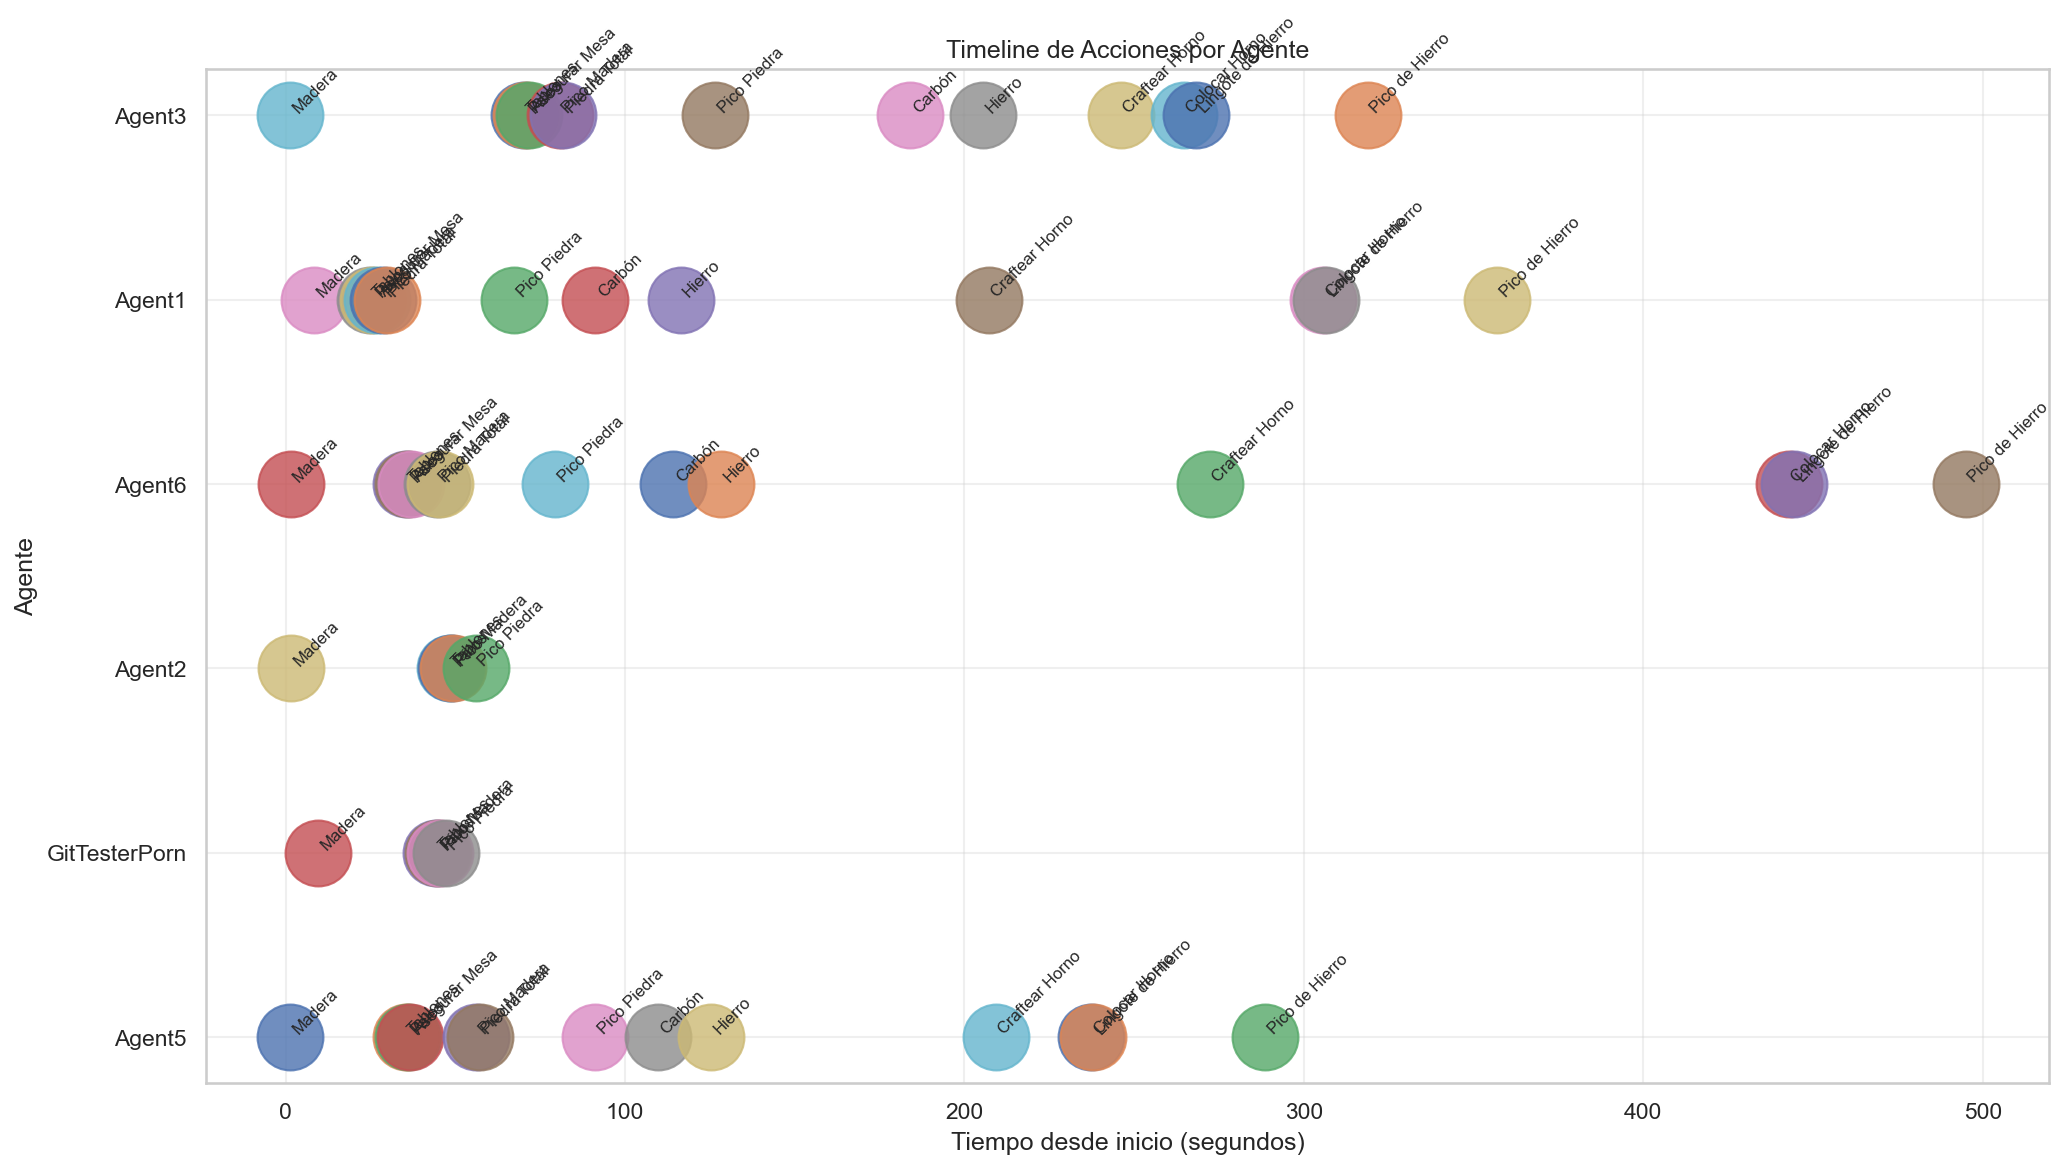
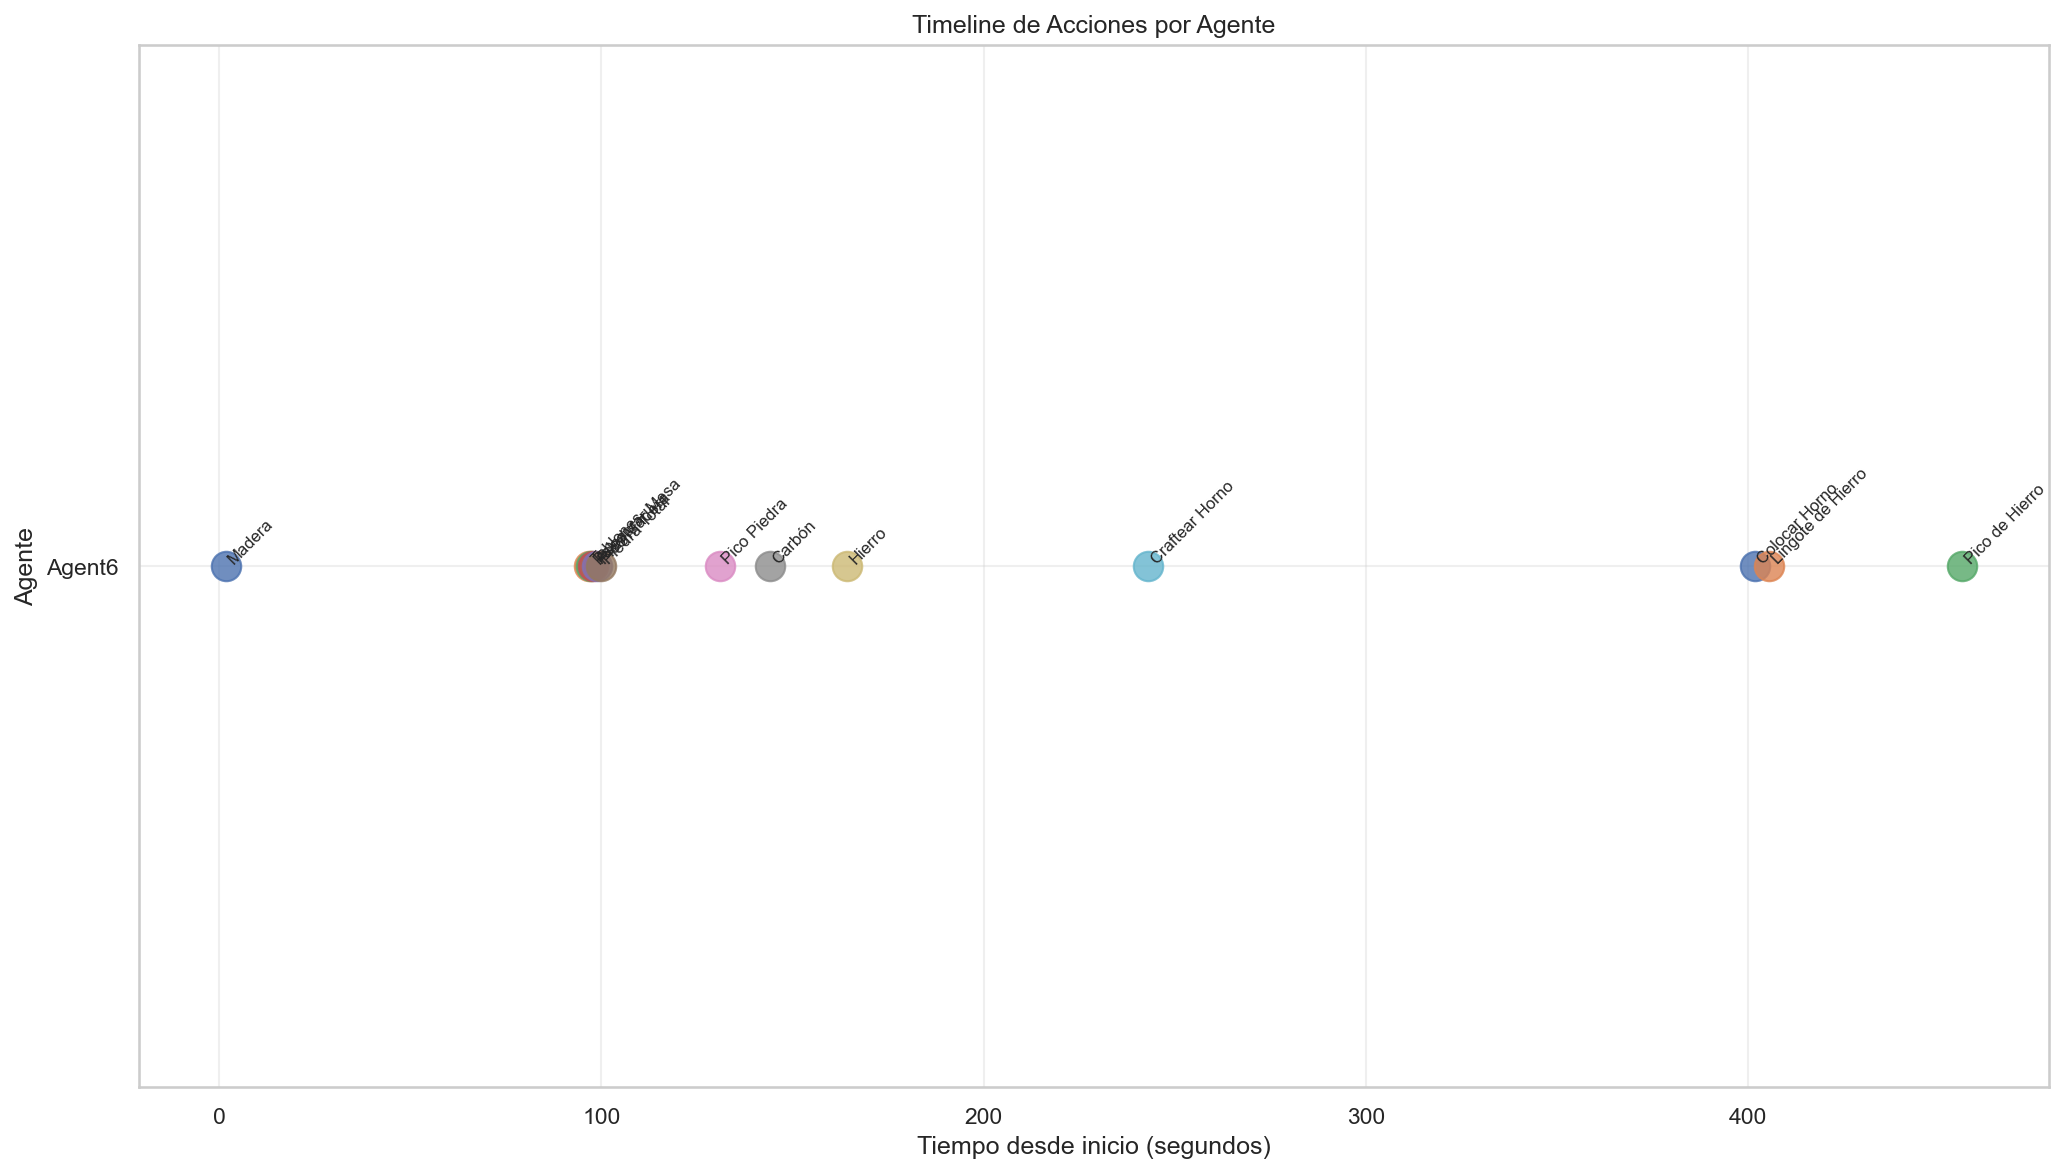
feat: obtencion de madera y planks dinamica

diff --git a/src/htn/tasks/wood.js b/src/htn/tasks/wood.js
@@ -1,14 +1,100 @@
 import { collectResource, ensureCraftingTable } from '../primitive_task.js'
 
 // =========================================================
-// --- TAREAS DE NIVEL MEDIO: MADERA/MESA ---
+// --- TAREAS DE NIVEL MEDIO: MADERA DINÁMICA ---
 // =========================================================
 
+// Mapeo extendido y más preciso
+const biomeToWoodType = {
+    'forest': 'oak_log',
+    'birch_forest': 'birch_log',
+    'dark_forest': 'dark_oak_log',
+    'jungle': 'jungle_log',
+    'spruce_taiga': 'spruce_log',
+    'taiga': 'spruce_log',
+    'old_growth_pine_taiga': 'spruce_log',
+    'old_growth_spruce_taiga': 'spruce_log',
+    'acacia_savanna': 'acacia_log',
+    'savanna': 'acacia_log',
+    'warped_forest': 'warped_stem',
+    'crimson_forest': 'crimson_stem',
+    'mangrove_swamp': 'mangrove_log',
+    'cherry_grove': 'cherry_log',
+    'snowy_taiga': 'spruce_log',
+    'flower_forest': 'oak_log',
+    'meadow': 'oak_log'
+}
+
+// Lista de sufijos de bloques de madera válidos
+const WOOD_SUFFIXES = ['_log', '_stem', '_hyphae', '_wood'];
+
 async function chopTree(bot, mcData, logs = 4) {
-    await collectResource(bot, mcData, 'oak_log', logs)
+    const woodType = await obtainWoodType(bot, mcData);
+    console.log(`[Wood.js] Bioma detectado. Buscando: ${woodType}`);
+    await collectResource(bot, mcData, woodType, logs);
+}
+
+function getBiomeName(bot, mcData) {
+    const biomeId = bot.world.getBiome(bot.entity.position);
+    return mcData.biomes[biomeId]?.name || 'plains';
+}
+
+/**
+ * Determina qué madera recolectar basándose en el bioma 
+ * o en lo que hay alrededor si el bioma es desconocido.
+ */
+async function obtainWoodType(bot, mcData) {
+    const biome = getBiomeName(bot, mcData);
+    let woodType = biomeToWoodType[biome];
+
+    // Si el bioma no está en el mapa, intentamos detectar qué madera hay cerca físicamente
+    if (!woodType) {
+        console.warn(`[Wood.js] Bioma "${biome}" no mapeado. Escaneando alrededores...`);
+        
+        // Buscamos bloques que coincidan con IDs de logs en mcData
+        const nearbyWood = bot.findBlock({
+            matching: (block) => {
+                const name = block.name;
+                return WOOD_SUFFIXES.some(suffix => name.endsWith(suffix));
+            },
+            maxDistance: 32
+        });
+
+        if (nearbyWood) {
+            woodType = nearbyWood.name;
+        } else {
+            // Fallback final: roble (el más común)
+            console.warn(`[Wood.js] No se encontró madera cerca. Usando roble por defecto.`);
+            woodType = 'oak_log';
+        }
+    }
+
+    return woodType;
+}
+
+/**
+ * Convierte un tipo de madera (log/stem) a su tipo de planks correspondiente
+ */
+function obtainPlankType(woodType) {
+    // Mapeo de log/stem a planks
+    const logToPlank = {
+        'oak_log': 'oak_planks',
+        'birch_log': 'birch_planks',
+        'dark_oak_log': 'dark_oak_planks',
+        'spruce_log': 'spruce_planks',
+        'jungle_log': 'jungle_planks',
+        'acacia_log': 'acacia_planks',
+        'mangrove_log': 'mangrove_planks',
+        'cherry_log': 'cherry_planks',
+        'warped_stem': 'warped_planks',
+        'crimson_stem': 'crimson_planks'
+    };
+
+    return logToPlank[woodType] || 'oak_planks';
 }
 
 export {
-    ensureCraftingTable,
-    chopTree
+    chopTree,
+    obtainWoodType,
+    obtainPlankType
 }

diff --git a/src/server/server.js b/src/server/server.js
@@ -67,6 +67,11 @@ const args = yargs(hideBin(process.argv))
         description: 'Minecraft version (or "auto")',
         default: 'auto'
     })
+    .option('clean-metrics', {
+        type: 'boolean',
+        description: 'Clean metrics directory (excluding example_*.json/csv files)',
+        default: false
+    })
     .option('config', {
         alias: 'c',
         type: 'string',
@@ -107,6 +112,40 @@ try {
     console.error('[ERROR] Failed to clean memory directory:', error.message);
 }
 
+// Clean metrics directory if requested
+if (args.cleanMetrics) {
+    const metricsPath = "src/agents/metrics/";
+    try {
+        const fs = await import('fs');
+        if (fs.existsSync(metricsPath)) {
+            const files = fs.readdirSync(metricsPath);
+            let deletedCount = 0;
+            
+            for (const file of files) {
+                // Skip example files
+                if (file.startsWith('example_')) {
+                    continue;
+                }
+                
+                const filePath = `${metricsPath}/${file}`;
+                if (fs.statSync(filePath).isFile()) {
+                    fs.unlinkSync(filePath);
+                    deletedCount++;
+                }
+            }
+            
+            if (deletedCount > 0) {
+                console.log(`[INFO] Removed ${deletedCount} file(s) from metrics directory`);
+            }
+        } else {
+            // Create directory if it doesn't exist
+            fs.mkdirSync(metricsPath, { recursive: true });
+            console.log(`[INFO] Created metrics directory: ${metricsPath}`);
+        }
+    } catch (error) {
+        console.error('[ERROR] Failed to clean metrics directory:', error.message);
+    }
+}
 
 await EvalServer.init(args.hostPublic, args.port, !args.noUi);
 

diff --git a/src/htn/tasks/progression.js b/src/htn/tasks/progression.js
@@ -5,12 +5,13 @@ import Vec3 from 'vec3'
 import {
     collectResource,
     smartCraft,
+    ensureCraftingTable,
     placeBlock,
     smeltItem,
     getItemNameFromBlock,
     exploreRandom
 } from '../primitive_task.js'
-import { chopTree, ensureCraftingTable } from './wood.js'
+import { chopTree, obtainWoodType, obtainPlankType } from './wood.js'
 import { getCoal, getIron } from './mining.js'
 
 // =========================================================
@@ -105,16 +106,20 @@ async function woodPhase(bot, mcData, has, guards) {
     if (guards.atStone()) return
 
     // Madera: tarea crítica, más reintentos
+    const woodType = await obtainWoodType(bot, mcData)
+    const plankType = obtainPlankType(woodType)
+    
     await runTask(
         bot,
         'Madera',
-        () => has('oak_log', 4),
+        () => has(woodType, 4),
         async () => chopTree(bot, mcData, 4),
         5,
         replan(bot, 3)
     )
     
-    await runTask(bot, 'Tablones', () => has('oak_planks', 12), async () => smartCraft(bot, mcData, 'oak_planks', 4))
+    bot.chat(`Craftear ${plankType} desde ${woodType}`)
+    await runTask(bot, 'Tablones', () => has(plankType, 12), async () => smartCraft(bot, mcData, plankType, 4))
     await runTask(bot, 'Palos', () => has('stick', 4), async () => smartCraft(bot, mcData, 'stick', 2))
 
     await runTask(bot, 'Asegurar Mesa', guards.isTablePlaced, async () => ensureCraftingTable(bot, mcData, 32), 3, replan(bot, 2))

diff --git a/docs/TODO.md b/docs/TODO.md
@@ -6,6 +6,8 @@
   - [x] Añadir precondiciones y consecuencias a la realización de acciones
   - [x] Probar API de Mindcraft
 - [x] Coger viewer de visión multiagente de LLM's
+- [x] Mejora de sistema de memorias
+- [x] Mejorar madera
 
 ## En Progreso
 - [ ] Llegar hasta hierro end-to-end estable
@@ -15,14 +17,14 @@
   - [ ] Robustecer crafteo con mesa (evitar windowOpen timeout)
   - [x] Ajustar criterios "has()" para items vs bloques
   - [x] Añadir telemetría mínima para diagnosticar fallos
-
+ 
 ## Por Hacer
 - [ ] Comunicación multiagente para replanificación
 - [ ] Recipes no hardcoded (planificador recursivo/crafting graph)
 - [ ] Automatizar obtención de objetos (incluye exploración)
 - [ ] Estabilizar exploración (evitar loops infinitos)
 - [ ] Manejo robusto de agua
-- [ ] Mejora de sistema de memorias
+- [ ] Automatizar creacion de mundos
 
 ## Investigación
 - [ ] Algoritmo RL
@@ -34,23 +36,3 @@
 - Prioridad: mejor exploración y condiciones de salida claras en recolección de materias primas
 - Mundo de cuevas multiagente: maximizar minería de ores con exploración coordinada. Mundo de cuevas -> varios agentes -> maximizar la mineria de ores
 
----
-
-- getBiomeName() puede ayudar en búsqueda de madera según bioma
-- En la obtención de materias primas aún se “raya” (loops). Prioridad: mejor exploración y condiciones de salida claras.
-
-```javascript
-export function getBiomeName(bot) {
-    /**
-     * Get the name of the biome the bot is in.
-     * @param {Bot} bot - The bot to get the biome for.
-     * @returns {string} - The name of the biome.
-     * @example
-     * let biome = world.getBiomeName(bot);
-     **/
-    const biomeId = bot.world.getBiome(bot.entity.position);
-    return mc.getAllBiomes()[biomeId].name;
-}
-```
-
-Esta funcion puede ayudar al conseguir madera

diff --git a/docs/BITACORA.md b/docs/BITACORA.md
@@ -63,9 +63,30 @@ const result = await this.agent.prompter.promptVision(messages, imageBuffer);
 
 ## Pendiente
 - [x] Exploración de madera con `getBiomeName()`
-- [ ] Rotura accidental de mesa al explorar → mejorar placement logic
+- [x] Rotura accidental de mesa al explorar → mejorar placement logic
 - [ ] Manejo de agua en movimiento
-- [ ] Acceso concurrente a memoria → revisar sistema
+- [x] Acceso concurrente a memoria → revisar sistema
+
+---
+
+- getBiomeName() puede ayudar en búsqueda de madera según bioma
+- En la obtención de materias primas aún se “raya” (loops). Prioridad: mejor exploración y condiciones de salida claras.
+
+```javascript
+export function getBiomeName(bot) {
+    /**
+     * Get the name of the biome the bot is in.
+     * @param {Bot} bot - The bot to get the biome for.
+     * @returns {string} - The name of the biome.
+     * @example
+     * let biome = world.getBiomeName(bot);
+     **/
+    const biomeId = bot.world.getBiome(bot.entity.position);
+    return mc.getAllBiomes()[biomeId].name;
+}
+```
+
+Esta funcion puede ayudar al conseguir madera
 
 ---
 # DUDAS 
